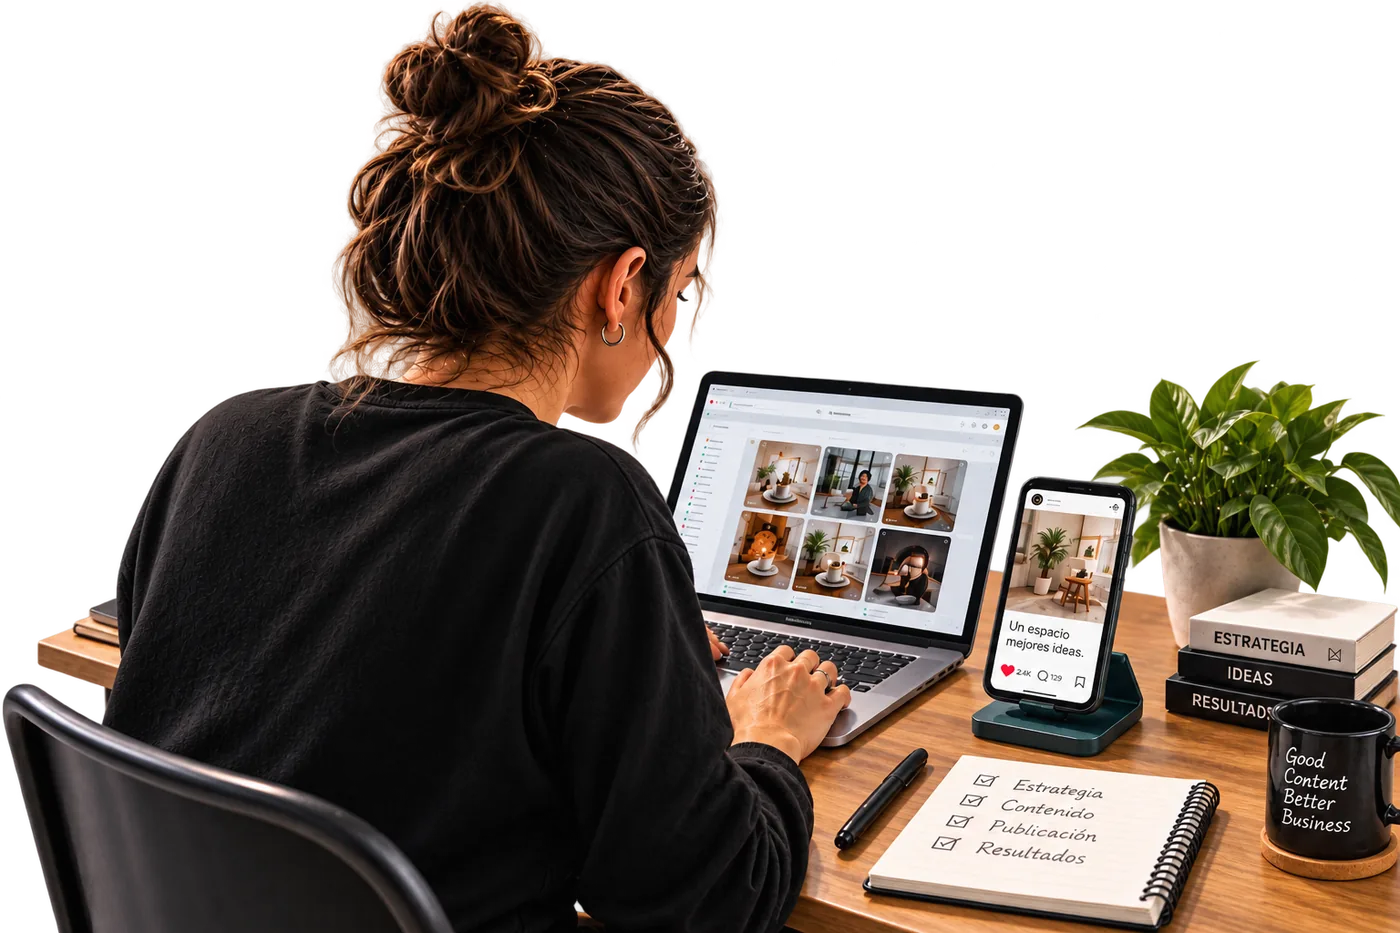
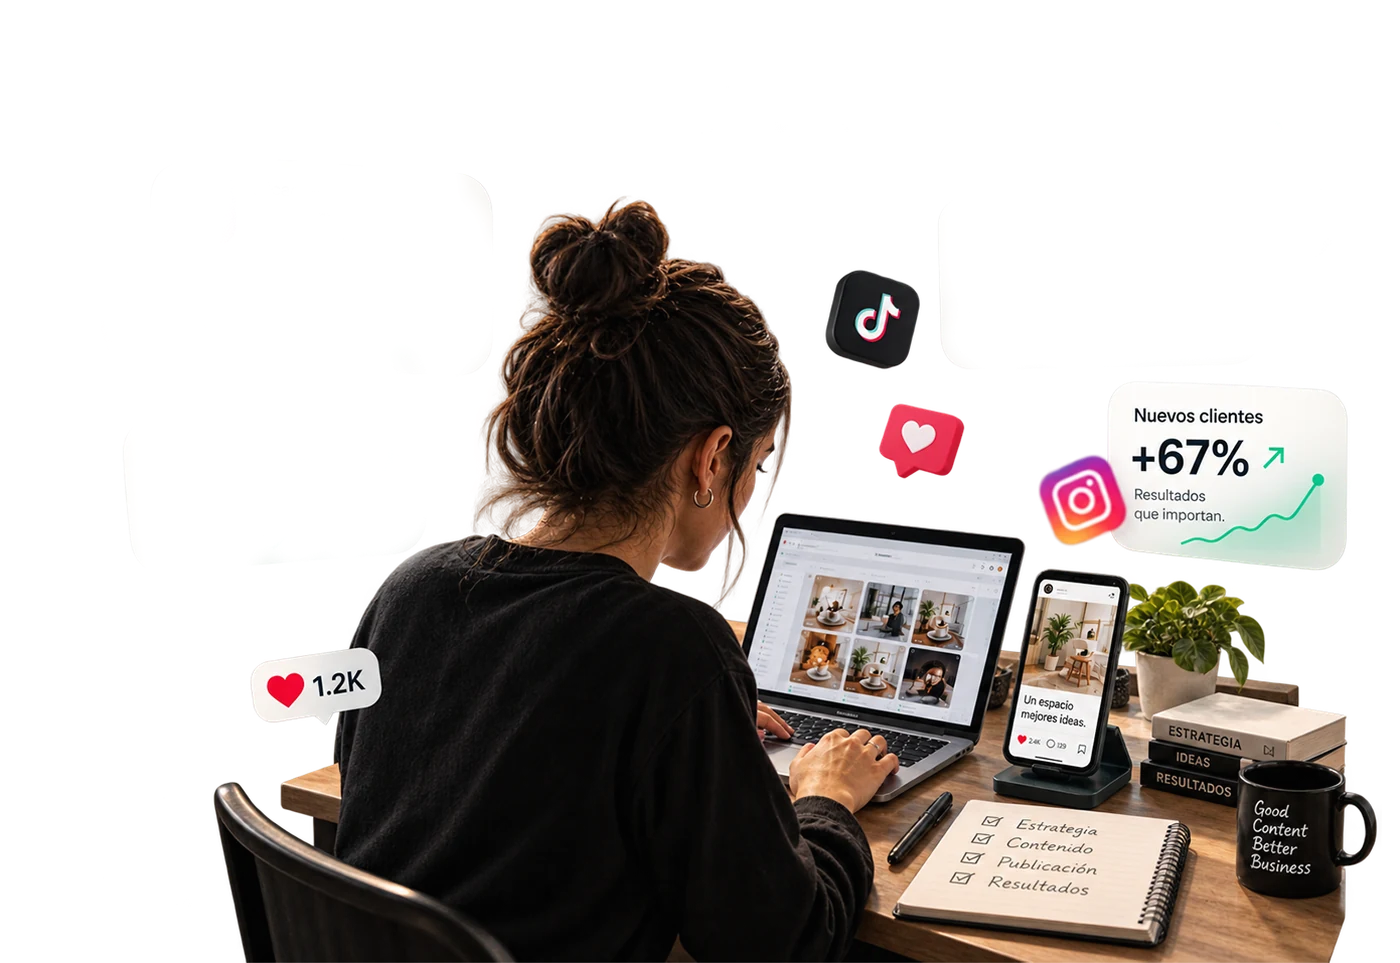
Diseño: scroll parallax en las 6 secciones, fondos branded (bg-social / bg-azul) con parallax fixed, Contenido rediseñado (más aire, imagen mayor con esquinas redondeadas y tarjetas que rebasan el marco), nuevas capas del parallax de Contenido

diff --git a/index.html b/index.html
@@ -71,7 +71,7 @@ h1,h2,h3{letter-spacing:-.02em;line-height:1.1}
 .stat-label{font-size:13px;color:rgba(255,255,255,.75);margin-top:4px}
 
 /* ═══════════ 1b · STATS BAND (protagonismo) ═══════════ */
-.stats-band{position:relative;background:var(--rt-marine);color:#fff;padding:100px 0;overflow:hidden}
+.stats-band{position:relative;background:var(--rt-marine) url(assets/img/bg-azul.webp) center center/cover no-repeat;color:#fff;padding:100px 0;overflow:hidden}
 .stats-glow{position:absolute;top:50%;left:50%;transform:translate(-50%,-50%);width:1000px;max-width:92%;height:440px;background:radial-gradient(ellipse,rgba(0,176,185,.18),transparent 66%);pointer-events:none}
 .stats-head{position:relative;z-index:1;text-align:center;max-width:660px;margin:0 auto 60px}
 .stats-head .eyebrow{color:var(--rt-turquoise-light)}
@@ -197,7 +197,7 @@ h1,h2,h3{letter-spacing:-.02em;line-height:1.1}
 .casos-cta p{font-size:20px;font-weight:700;color:var(--rt-marine)}
 
 /* ═══════════ 5 · MODELO ═══════════ */
-.modelo{background:var(--rt-marine);color:#fff;padding:96px 0}
+.modelo{background:var(--rt-marine) url(assets/img/bg-azul.webp) center center/cover no-repeat;color:#fff;padding:96px 0}
 .modelo-grid{display:grid;grid-template-columns:1fr 1fr;gap:70px;align-items:center}
 .modelo h2{font-size:44px;font-weight:700}
 .modelo p{font-size:17px;line-height:28px;color:rgba(255,255,255,.8);margin-top:20px}
@@ -241,6 +241,20 @@ h1,h2,h3{letter-spacing:-.02em;line-height:1.1}
 .chf{display:flex;align-items:center;gap:11px;font-size:12px;font-weight:700;letter-spacing:.05em;text-transform:uppercase;color:var(--rt-text-sec);line-height:1.2}
 .chf__ic{flex:0 0 auto;width:36px;height:36px;border-radius:9px;background:#fff;border:1px solid var(--rt-border);display:flex;align-items:center;justify-content:center;color:var(--rt-turquoise-dark)}
 .chf__ic svg{width:18px;height:18px}
+/* Contenido: sección más espaciada (más aire) + capas nuevas del parallax */
+#svc-contenido{padding:108px 0;background:url(assets/img/bg-social.webp) center center/cover no-repeat}
+#svc-contenido .svc-inner{grid-template-columns:1fr 1fr;gap:52px;align-items:center}
+#svc-contenido h2{font-size:clamp(36px,4.4vw,54px);line-height:1.1;letter-spacing:-.022em}
+#svc-contenido .svc-lead{margin-top:24px;max-width:none;font-size:18px;line-height:30px}
+#svc-contenido .svc-cta{margin-top:36px}
+#svc-contenido .content-hero__feats{margin-top:52px;gap:32px}
+#svc-contenido .chf__ic{width:42px;height:42px;border-radius:11px}
+#svc-contenido .chf__ic svg{width:20px;height:20px}
+/* Imagen más grande, esquinas redondeadas; las tarjetas pueden salirse del marco */
+#svc-contenido .svc-parallax{aspect-ratio:1400/963;overflow:visible}
+#svc-contenido .pll-layer img{transform:scale(1.12)}
+#svc-contenido .pll-fore{overflow:visible}
+@media(max-width:820px){#svc-contenido{padding:70px 0}}
 /* Separador tipo onda entre secciones: acento flotando sobre el límite */
 .wave-sep{position:relative;z-index:1;height:0;line-height:0;pointer-events:none;overflow:visible;display:flex}
 .wave-sep svg{display:block;opacity:1;transform:translateY(-50%)}
@@ -260,12 +274,17 @@ h1,h2,h3{letter-spacing:-.02em;line-height:1.1}
 #svc-web .svc-visual{order:1}
 #svc-web .svc-copy{order:2}
 /* Publicidad digital: imagen a la izquierda, texto a la derecha */
+#svc-ads{background:url(assets/img/bg-social.webp) center center/cover no-repeat}
+/* Parallax de fondo: el fondo queda fijo al viewport y el contenido pasa por encima */
+#svc-contenido,#svc-ads,.modelo,#svc-growth,.stats-band{background-attachment:fixed}
+@media(max-width:820px){#svc-contenido,#svc-ads,.modelo,#svc-growth,.stats-band{background-attachment:scroll}}
 #svc-ads .svc-inner{grid-template-columns:1.1fr 0.9fr;align-items:center}
 #svc-ads .svc-visual{order:1}
 #svc-ads .svc-copy{order:2}
 @media(max-width:820px){#svc-ads .svc-copy{order:1}#svc-ads .svc-visual{order:2}}
 /* Growth: imagen destacada al 120% (crece hacia la derecha para no pisar el texto) */
-#svc-growth{overflow:hidden}
+#svc-growth{overflow:hidden;background:var(--rt-marine) url(assets/img/bg-azul.webp) center center/cover fixed no-repeat}
+@media(max-width:820px){#svc-growth{background-attachment:scroll}}
 #svc-growth .svc-visual img{transform:scale(1.2);transform-origin:left center}
 /* Mini-features compactos bajo los CTAs: icono arriba, texto chico, en fila */
 .svc-points--mini{margin-top:30px;flex-direction:row;gap:22px}
@@ -1098,6 +1117,37 @@ document.getElementById('year').textContent=new Date().getFullYear();
       });
       wrap.addEventListener('mouseleave',function(){ tx=0; ty=0; kick(); });
     });
+  })();
+  /* Scroll parallax en las 6 secciones de servicios: el visual se desplaza a otra velocidad que el texto */
+  (function(){
+    var reduce=window.matchMedia&&window.matchMedia('(prefers-reduced-motion:reduce)').matches;
+    if(reduce) return;
+    var specs=[
+      ['#svc-estrategia .svc-points',0.06],
+      ['#ia .ia-carousel',0.05],
+      ['#svc-contenido .svc-visual',0.07],
+      ['#svc-web .svc-visual',0.07],
+      ['#svc-growth .svc-visual',0.07],
+      ['#svc-ads .svc-visual',0.07]
+    ];
+    var items=[];
+    specs.forEach(function(s){var el=document.querySelector(s[0]);if(el){el.style.willChange='transform';items.push({el:el,speed:s[1]});}});
+    if(!items.length) return;
+    var vh=window.innerHeight, ticking=false;
+    function update(){
+      ticking=false;
+      for(var i=0;i<items.length;i++){
+        var it=items[i], r=it.el.getBoundingClientRect();
+        if(r.bottom<-120||r.top>vh+120) continue; /* solo lo visible */
+        var delta=(r.top+r.height/2)-vh/2, y=-delta*it.speed;
+        if(y>40)y=40; else if(y<-40)y=-40;
+        it.el.style.transform='translate3d(0,'+y.toFixed(1)+'px,0)';
+      }
+    }
+    function onScroll(){ if(!ticking){ ticking=true; requestAnimationFrame(update); } }
+    window.addEventListener('scroll',onScroll,{passive:true});
+    window.addEventListener('resize',function(){ vh=window.innerHeight; onScroll(); });
+    update();
   })();
   /* Muestra/oculta el rail flotante mientras el bloque de servicios está a la vista */
   var scope=document.querySelector('.svc-scope');
